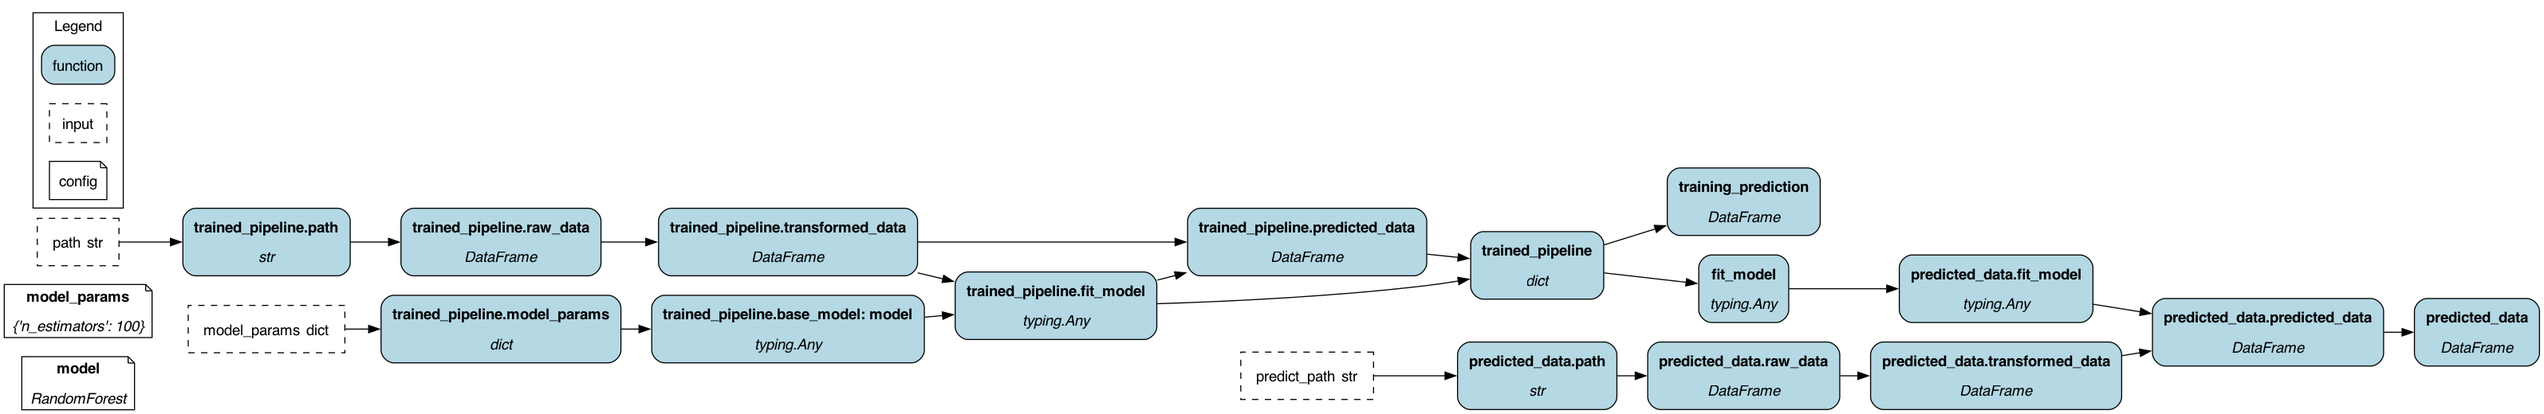
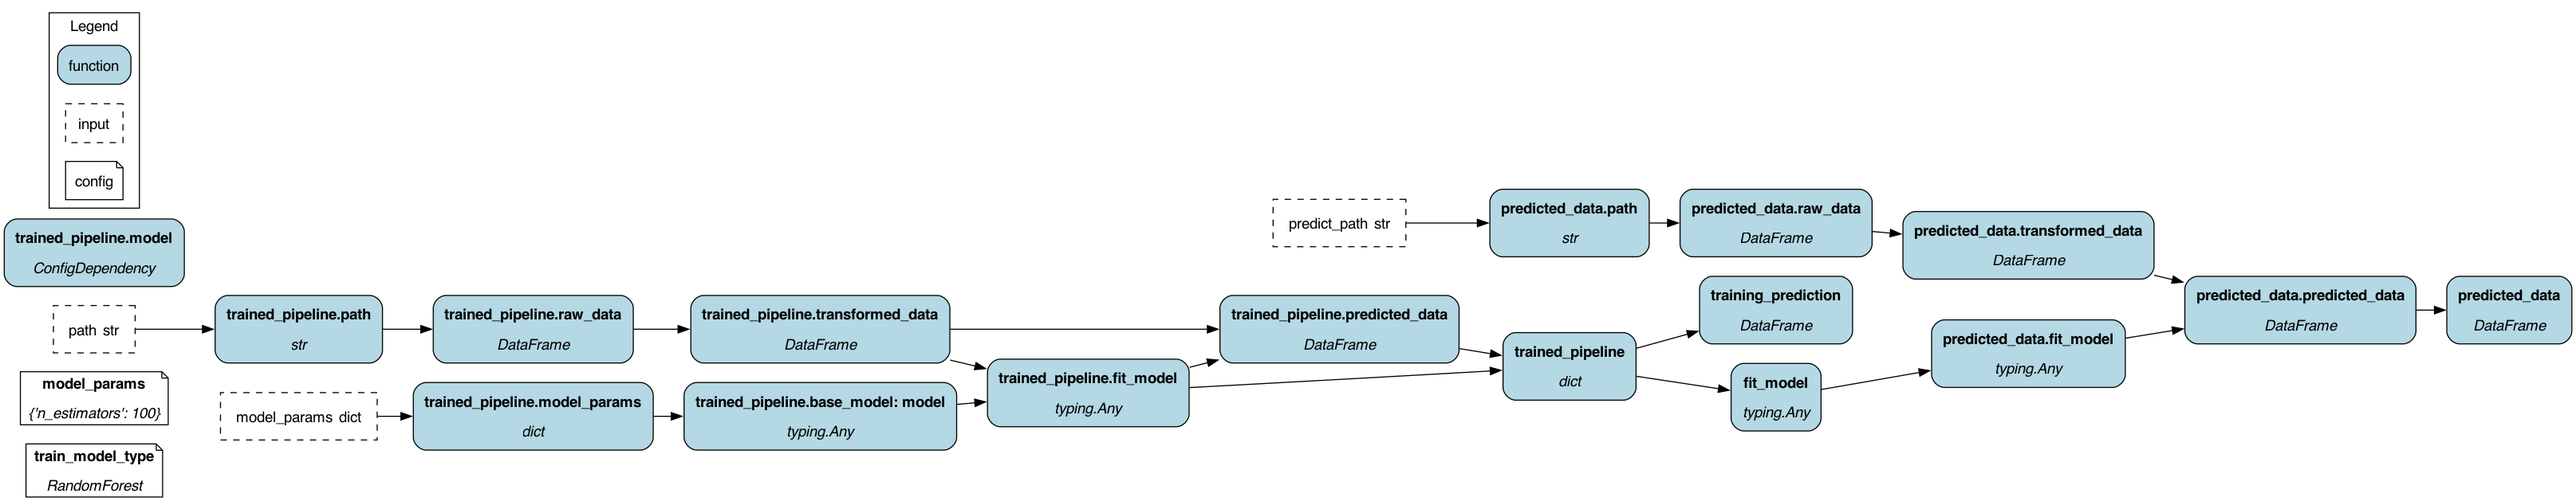
Adds configuration object and refactors code
Named it configuration to not clash with config decorator.

Changed region(s): [[0.0, 0.0, 1.0, 1.0], [0.0, 0.9538, 0.0621, 1.0]]

diff --git a/hamilton/function_modifiers/recursive.py b/hamilton/function_modifiers/recursive.py
@@ -131,6 +131,38 @@ def _validate_config_inputs(config: Dict[str, Any], inputs: Dict[str, Any]):
             )
 
 
+def _resolve_subdag_configuration(
+    configuration: Dict[str, Any], fields: Dict[str, Any], function_name: str
+) -> Dict[str, Any]:
+    """Resolves the configuration for a subdag.
+
+    :param configuration: the Hamilton configuration
+    :param fields: the fields passed to the subdag decorator
+    :return: resolved configuration to use for this subdag.
+    """
+    sources_to_map = {}
+    values_to_include = {}
+    for key, value in fields.items():
+        if isinstance(value, dependencies.ConfigDependency):
+            sources_to_map[key] = value.source
+        elif isinstance(value, dependencies.LiteralDependency):
+            values_to_include[key] = value.value
+    plain_configs = {
+        k: v for k, v in fields.items() if k not in sources_to_map and k not in values_to_include
+    }
+    resolved_config = dict(configuration, **plain_configs, **values_to_include)
+
+    # override any values from sources
+    for key, source in sources_to_map.items():
+        try:
+            resolved_config[key] = resolved_config[source]
+        except KeyError as e:
+            raise InvalidDecoratorException(
+                f"Source {source} was not found in the configuration. This is required for the {function_name} subdag."
+            ) from e
+    return resolved_config
+
+
 NON_FINAL_TAGS = {NodeTransformer.NON_FINAL_TAG: True}
 
 
@@ -423,28 +455,8 @@ class subdag(base.NodeCreator):
 
     def generate_nodes(self, fn: Callable, configuration: Dict[str, Any]) -> Collection[node.Node]:
         # Resolve all nodes from passed in functions
-        # if self.config has source() or value() in it, we need to resolve it
-        sources_to_map = {}
-        values_to_include = {}
-        for key, value in self.config.items():
-            if isinstance(value, dependencies.UpstreamDependency):
-                sources_to_map[key] = value.source
-            elif isinstance(value, dependencies.LiteralDependency):
-                values_to_include[key] = value.value
-        plain_configs = {
-            k: v
-            for k, v in self.config.items()
-            if k not in sources_to_map and k not in values_to_include
-        }
-        resolved_config = dict(configuration, **plain_configs, **values_to_include)
-        # override any values from sources
-        for key, source in sources_to_map.items():
-            try:
-                resolved_config[key] = resolved_config[source]
-            except KeyError as e:
-                raise InvalidDecoratorException(
-                    f"Source {source} was not found in the configuration. This is required for the {fn.__name__} subdag."
-                ) from e
+        # if self.config has configuration() or value() in it, we need to resolve it
+        resolved_config = _resolve_subdag_configuration(configuration, self.config, fn.__name__)
         # resolved_config = dict(configuration, **self.config)
         nodes = self.collect_nodes(config=resolved_config, subdag_functions=self.subdag_functions)
         # Derive the namespace under which all these nodes will live

diff --git a/hamilton/function_modifiers/dependencies.py b/hamilton/function_modifiers/dependencies.py
@@ -16,6 +16,7 @@ class ParametrizedDependencySource(enum.Enum):
     UPSTREAM = "upstream"
     GROUPED_LIST = "grouped_list"
     GROUPED_DICT = "grouped_dict"
+    CONFIGURATION = "configuration"
 
 
 class ParametrizedDependency:
@@ -42,6 +43,14 @@ class UpstreamDependency(SingleDependency):
 
     def get_dependency_type(self) -> ParametrizedDependencySource:
         return ParametrizedDependencySource.UPSTREAM
+
+
+@dataclasses.dataclass
+class ConfigDependency(SingleDependency):
+    source: str
+
+    def get_dependency_type(self) -> ParametrizedDependencySource:
+        return ParametrizedDependencySource.CONFIGURATION
 
 
 class GroupedDependency(ParametrizedDependency, abc.ABC):
@@ -123,8 +132,8 @@ def value(literal_value: Any) -> LiteralDependency:
 
     E.G. value("foo") means that the value is actually the string value "foo".
 
-    :param literal_value: Python literal value to use. :return: A LiteralDependency object -- a
-        signifier to the internal framework of the dependency type.
+    :param literal_value: Python literal value to use.
+    :return: A LiteralDependency object -- a signifier to the internal framework of the dependency type.
     """
     if isinstance(literal_value, LiteralDependency):
         return literal_value
@@ -138,12 +147,23 @@ def source(dependency_on: Any) -> UpstreamDependency:
     be assigned the value that "foo" outputs.
 
     :param dependency_on: Upstream function (i.e. node) to come from.
-    :return: An
-        UpstreamDependency object -- a signifier to the internal framework of the dependency type.
+    :return: An UpstreamDependency object -- a signifier to the internal framework of the dependency type.
     """
     if isinstance(dependency_on, UpstreamDependency):
         return dependency_on
     return UpstreamDependency(source=dependency_on)
+
+
+def configuration(dependency_on: str) -> ConfigDependency:
+    """Specifies that a parameterized dependency comes from the global `config` passed in.
+
+    This means that it comes from a global configuration key value. E.G. config("foo") means that it should
+    be assigned the value that the "foo" key in global configuration passed to Hamilton maps to.
+
+    :param dependency_on: name of the configuration key to pull from.
+    :return: An ConfigDependency object -- a signifier to the internal framework of the dependency type.
+    """
+    return ConfigDependency(source=dependency_on)
 
 
 def _validate_group_params(

diff --git a/tests/function_modifiers/test_recursive.py b/tests/function_modifiers/test_recursive.py
@@ -10,6 +10,7 @@ from hamilton import ad_hoc_utils, graph
 from hamilton.function_modifiers import (
     InvalidDecoratorException,
     config,
+    configuration,
     parameterized_subdag,
     recursive,
     subdag,
@@ -413,7 +414,7 @@ def test_nested_subdag_with_config_remapping():
     def outer_subdag_1(inner_subdag: Tuple[int, int]) -> int:
         return sum(inner_subdag)
 
-    @subdag(inner_subdag, inputs={"input_2": value(3)}, config={"broken": source("broken2")})
+    @subdag(inner_subdag, inputs={"input_2": value(3)}, config={"broken": configuration("broken2")})
     def outer_subdag_2(inner_subdag: Tuple[int, int]) -> int:
         return sum(inner_subdag)
 
@@ -454,7 +455,11 @@ def test_nested_subdag_with_config_remapping_missing_error():
     def outer_subdag_1(inner_subdag: Tuple[int, int]) -> int:
         return sum(inner_subdag)
 
-    @subdag(inner_subdag, inputs={"input_2": value(3)}, config={"broken": source("broken_missing")})
+    @subdag(
+        inner_subdag,
+        inputs={"input_2": value(3)},
+        config={"broken": configuration("broken_missing")},
+    )
     def outer_subdag_2(inner_subdag: Tuple[int, int]) -> int:
         return sum(inner_subdag)
 
@@ -466,6 +471,30 @@ def test_nested_subdag_with_config_remapping_missing_error():
     full_module = ad_hoc_utils.create_temporary_module(outer_subdag_1, outer_subdag_2, sum_all)
     with pytest.raises(InvalidDecoratorException):
         graph.FunctionGraph.from_modules(full_module, config={"broken2": False})
+
+
+@pytest.mark.parametrize(
+    "configuration,fields,expected",
+    [
+        ({"a": 1, "b": 2}, {}, {"a": 1, "b": 2}),
+        ({"a": 1, "b": 2}, {"c": value(3)}, {"a": 1, "b": 2, "c": 3}),
+        (
+            {"a": 1, "b": 2},
+            {"c": value(3), "d": configuration("a")},
+            {"a": 1, "b": 2, "c": 3, "d": 1},
+        ),
+    ],
+)
+def test_resolve_subdag_configuration_happy(configuration, fields, expected):
+    actual = recursive._resolve_subdag_configuration(configuration, fields, "test")
+    assert actual == expected
+
+
+def test_resolve_subdag_configuration_bad_mapping():
+    _configuration = {"a": 1, "b": 2}
+    fields = {"c": value(3), "d": configuration("e")}
+    with pytest.raises(InvalidDecoratorException):
+        recursive._resolve_subdag_configuration(_configuration, fields, "test")
 
 
 def test_subdag_with_external_nodes_input():

diff --git a/examples/model_examples/modular_example/pipeline.py b/examples/model_examples/modular_example/pipeline.py
@@ -5,7 +5,7 @@ import inference
 import pandas as pd
 import train
 
-from hamilton.function_modifiers import extract_fields, source, subdag
+from hamilton.function_modifiers import configuration, extract_fields, source, subdag
 
 
 @extract_fields({"fit_model": Any, "training_prediction": pd.DataFrame})
@@ -18,7 +18,7 @@ from hamilton.function_modifiers import extract_fields, source, subdag
         "model_params": source("model_params"),
     },
     config={
-        "model": source("model"),  # not strictly required but allows us to remap.
+        "model": configuration("train_model_type"),  # not strictly required but allows us to remap.
     },
 )
 def trained_pipeline(fit_model: Any, predicted_data: pd.DataFrame) -> dict:

diff --git a/examples/model_examples/modular_example/run.py b/examples/model_examples/modular_example/run.py
@@ -6,7 +6,7 @@ from hamilton import driver
 def run():
     dr = (
         driver.Builder()
-        .with_config({"model": "RandomForest", "model_params": {"n_estimators": 100}})
+        .with_config({"train_model_type": "RandomForest", "model_params": {"n_estimators": 100}})
         .with_modules(pipeline)
         .build()
     )

diff --git a/hamilton/function_modifiers/__init__.py b/hamilton/function_modifiers/__init__.py
@@ -36,6 +36,7 @@ hamilton_exclude = configuration.hamilton_exclude()
 value = dependencies.value
 source = dependencies.source
 group = dependencies.group
+configuration = dependencies.configuration
 
 # These aren't strictly part of the API but we should have them here for safety
 LiteralDependency = dependencies.LiteralDependency
